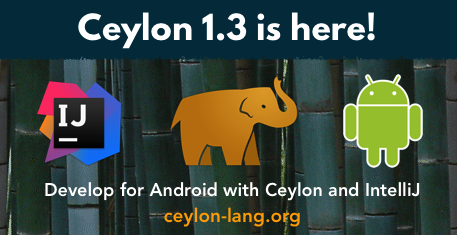
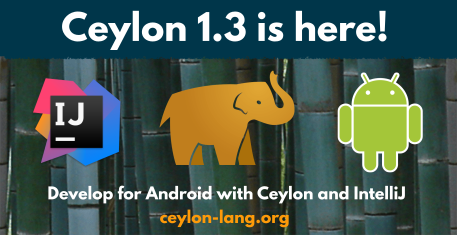
more improvements to 1.3 announcements

diff --git a/blog/2016-09-16-ceylon-1-3-0.md b/blog/2016-09-16-ceylon-1-3-0.md
@@ -8,7 +8,7 @@ tags: [release, news, progress, 1.3.0]
 ---
 
 <center>
- <p><a href="/download" title="Download Ceylon"><img src="/images/ceylon13-android-intellij.png"/></a></p>
+ <p><a href="/download" title="Download Ceylon"><img src="/images/ceylon13-android-intellij@2x.png" style="box-shadow: 0 0 10px #888" width="80%"/></a></p>
 </center>
 
 [spec]: /documentation/1.3/spec
@@ -51,7 +51,7 @@ development environments:
 - existing support for the [Eclipse][] platform.
 
 <center>
- <p><a href="/download" title="Download Ceylon"><img src="/images/screenshots/1.3.0/intellij/intellij-darcula.png" style="box-shadow: 0 0 10px #888;margin-left:10px" width="500px"/></a></p>
+ <p><a href="/download" title="Download Ceylon"><img src="/images/screenshots/1.3.0/intellij/intellij-darcula.png" style="box-shadow: 0 0 10px #888" width="80%"/></a></p>
 </center>
 
 [Ceylon IDE for IntelliJ][] was designed for high performance in
@@ -67,21 +67,26 @@ include:
 - support for importing modules from [npm][] and for 
   publishing Ceylon modules to npm
 - support for developing microservices with 
-  [WildFly Swarm][Swarm] 
+  [WildFly Swarm][Swarm]
+- cross-platform [services](http://localhost:4242/documentation/1.3/tour/interop/#interoperation_with_javas_serviceloader),
+  abstracting the Java service loader
 - addition of the 
   [`fat-jar`](/documentation/1.3/reference/tool/ceylon/subcommands/ceylon-fat-jar.html)
-  tool for packaging a Ceylon
-  program and its dependencies into a since assembly
+  tool for packaging a Ceylon program and its dependencies 
+  into a single assembly
 - [*much* slimmer runtime](/blog/2016/07/04/modularity-changes)
 - destructuring for parameters of anonymous functions
 - destructuring in `case`s of a `switch`
 - addition of the [`CorrespondenceMutator`](/documentation/1.3/reference/operator/lookup-assign/) interface
 - addition of [`Collection.combinations()`](https://modules.ceylon-lang.org/repo/1/ceylon/language/1.3.0/module-doc/api/Collection.type.html#combinations)
 - [`small`](https://modules.ceylon-lang.org/repo/1/ceylon/language/1.3.0/module-doc/api/index.html#small) 
-  and [`since`](https://modules.ceylon-lang.org/repo/1/ceylon/language/1.3.0/module-doc/api/index.html#since) annotations
-- many minor improvements to Java interop
+  and [`since`](https://modules.ceylon-lang.org/repo/1/ceylon/language/1.3.0/module-doc/api/index.html#since) 
+  annotations
+- many minor improvements to interoperation with Java
 - experimental support for [Java APT processors](http://docs.oracle.com/javase/8/docs/api/javax/annotation/processing/package-summary.html)
 - improved behavior for `is` tests with generic Java types
+- [correct typing](http://localhost:4242/documentation/1.3/tour/interop/#java_types_annotated_nullable_are_exposed_as_optional_types) 
+  for things annotated `@Nullable`/`@NotNull` in Java
 - full support for Java 8
 - reduced typechecker memory footprint
 
